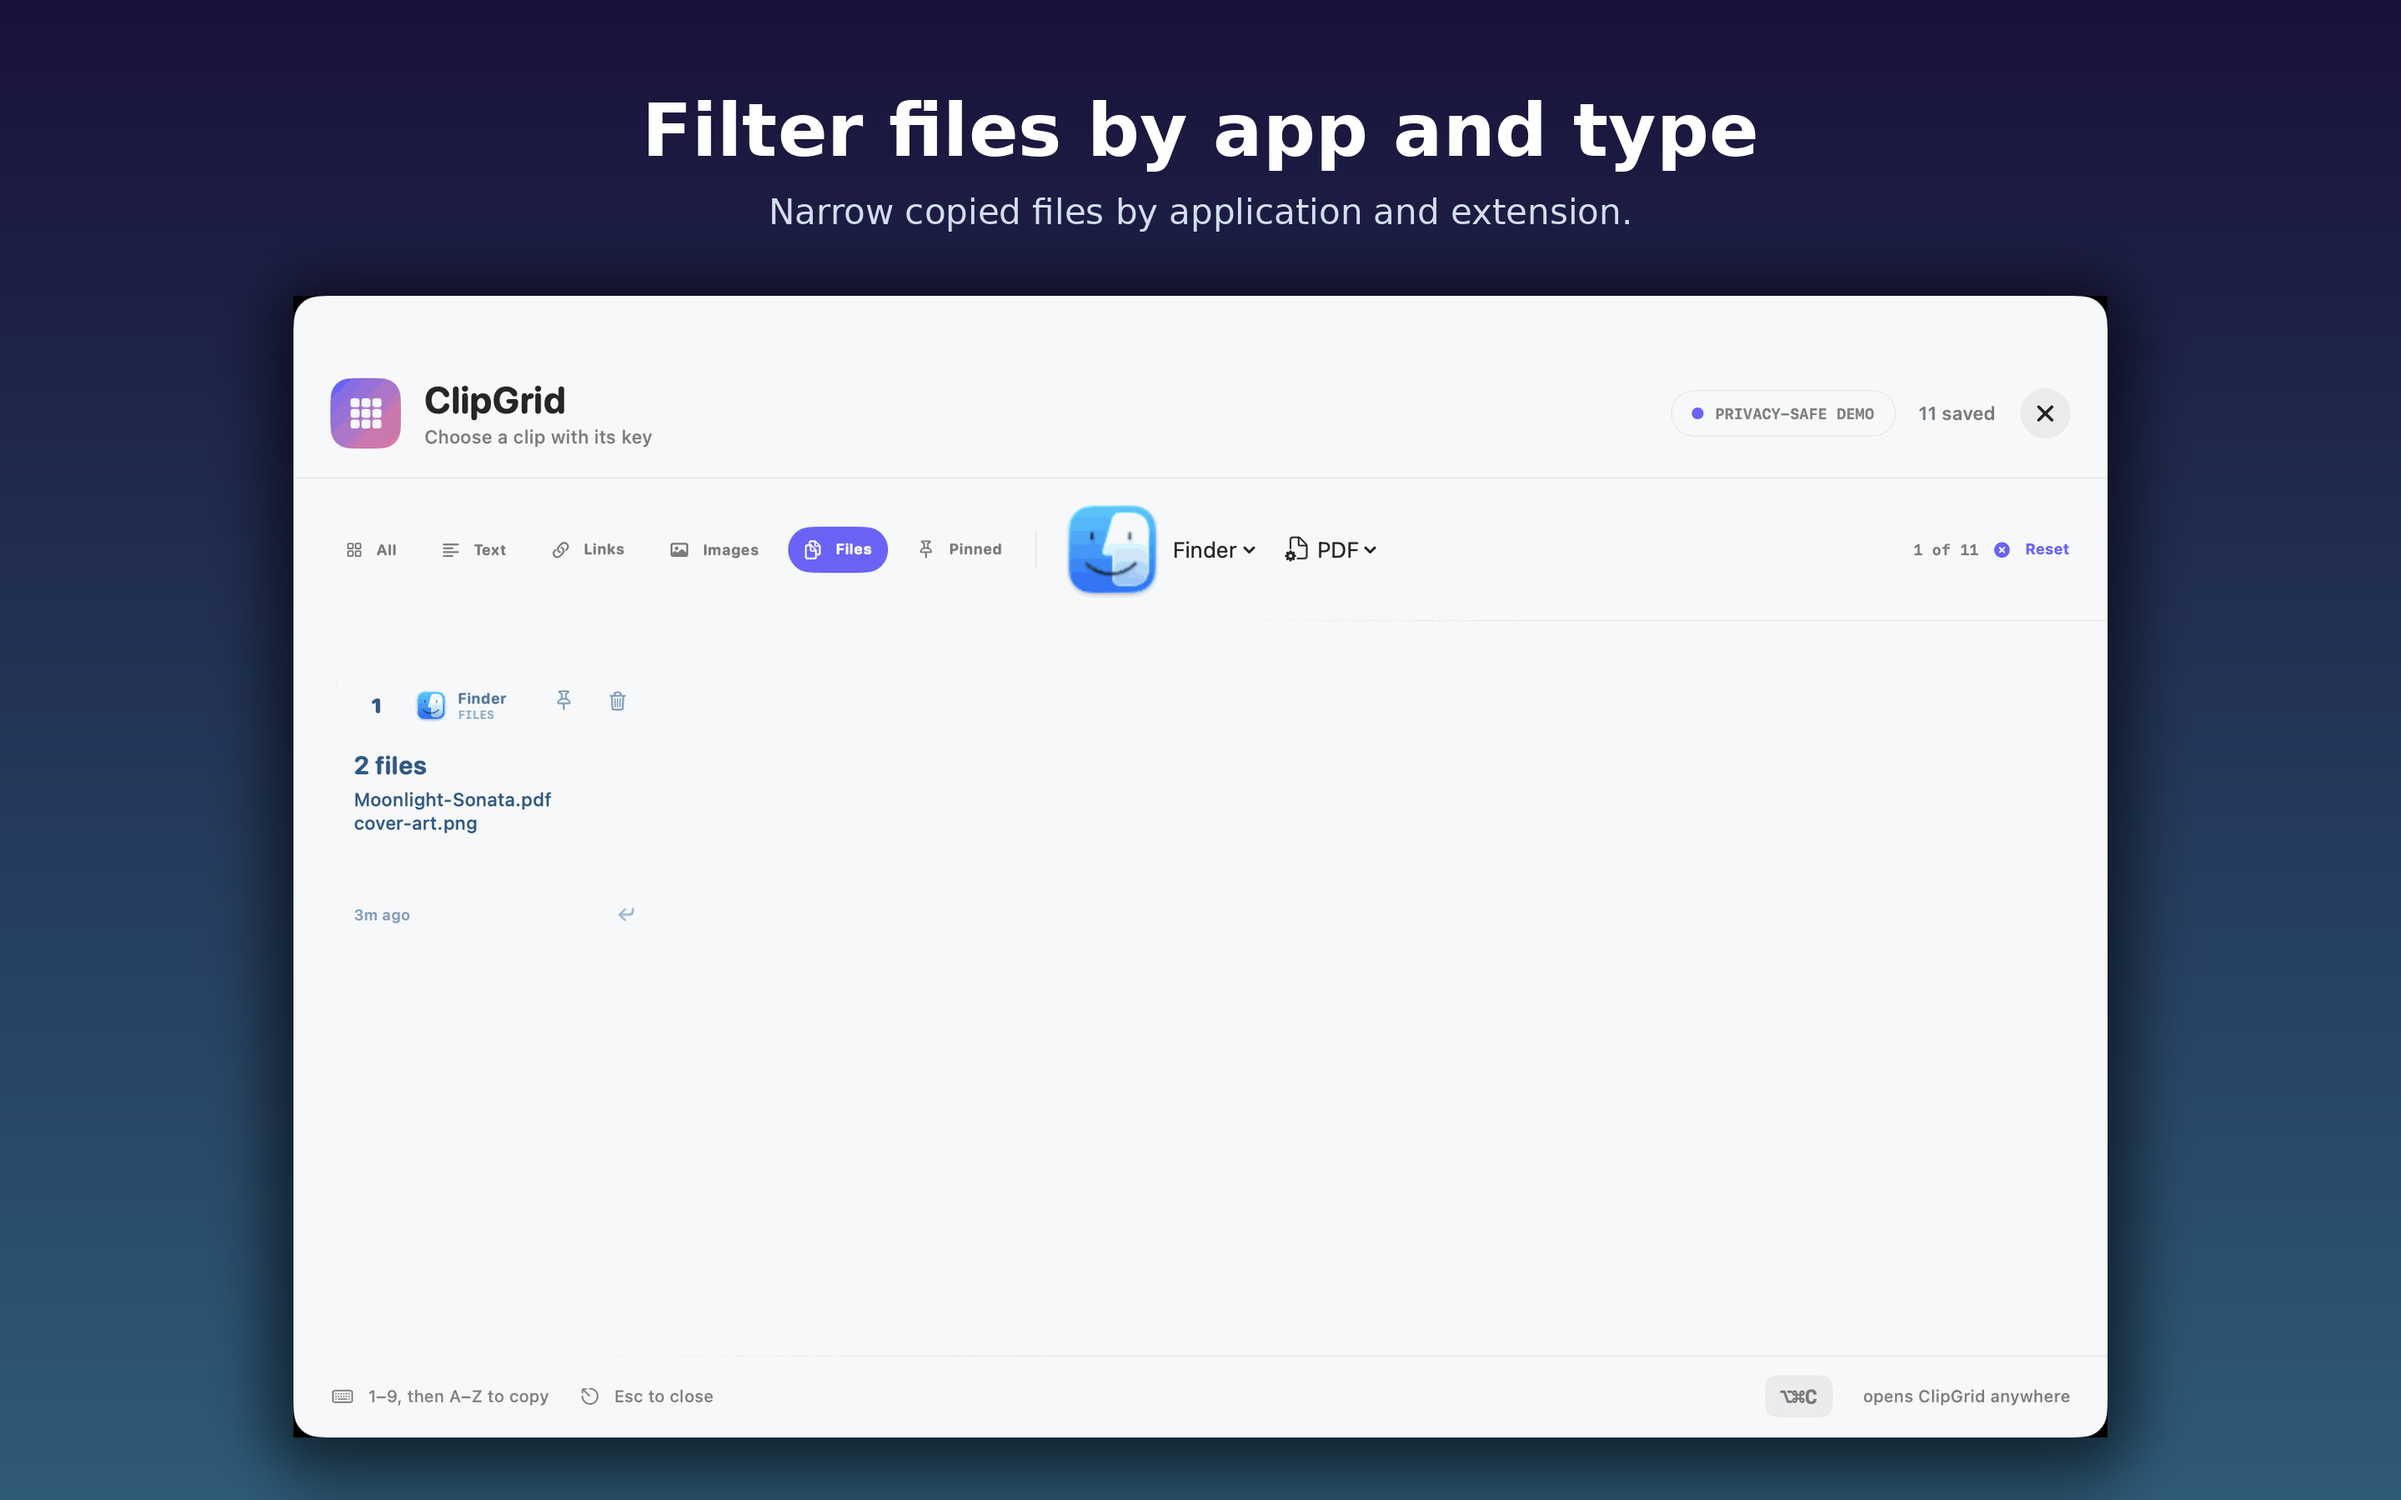
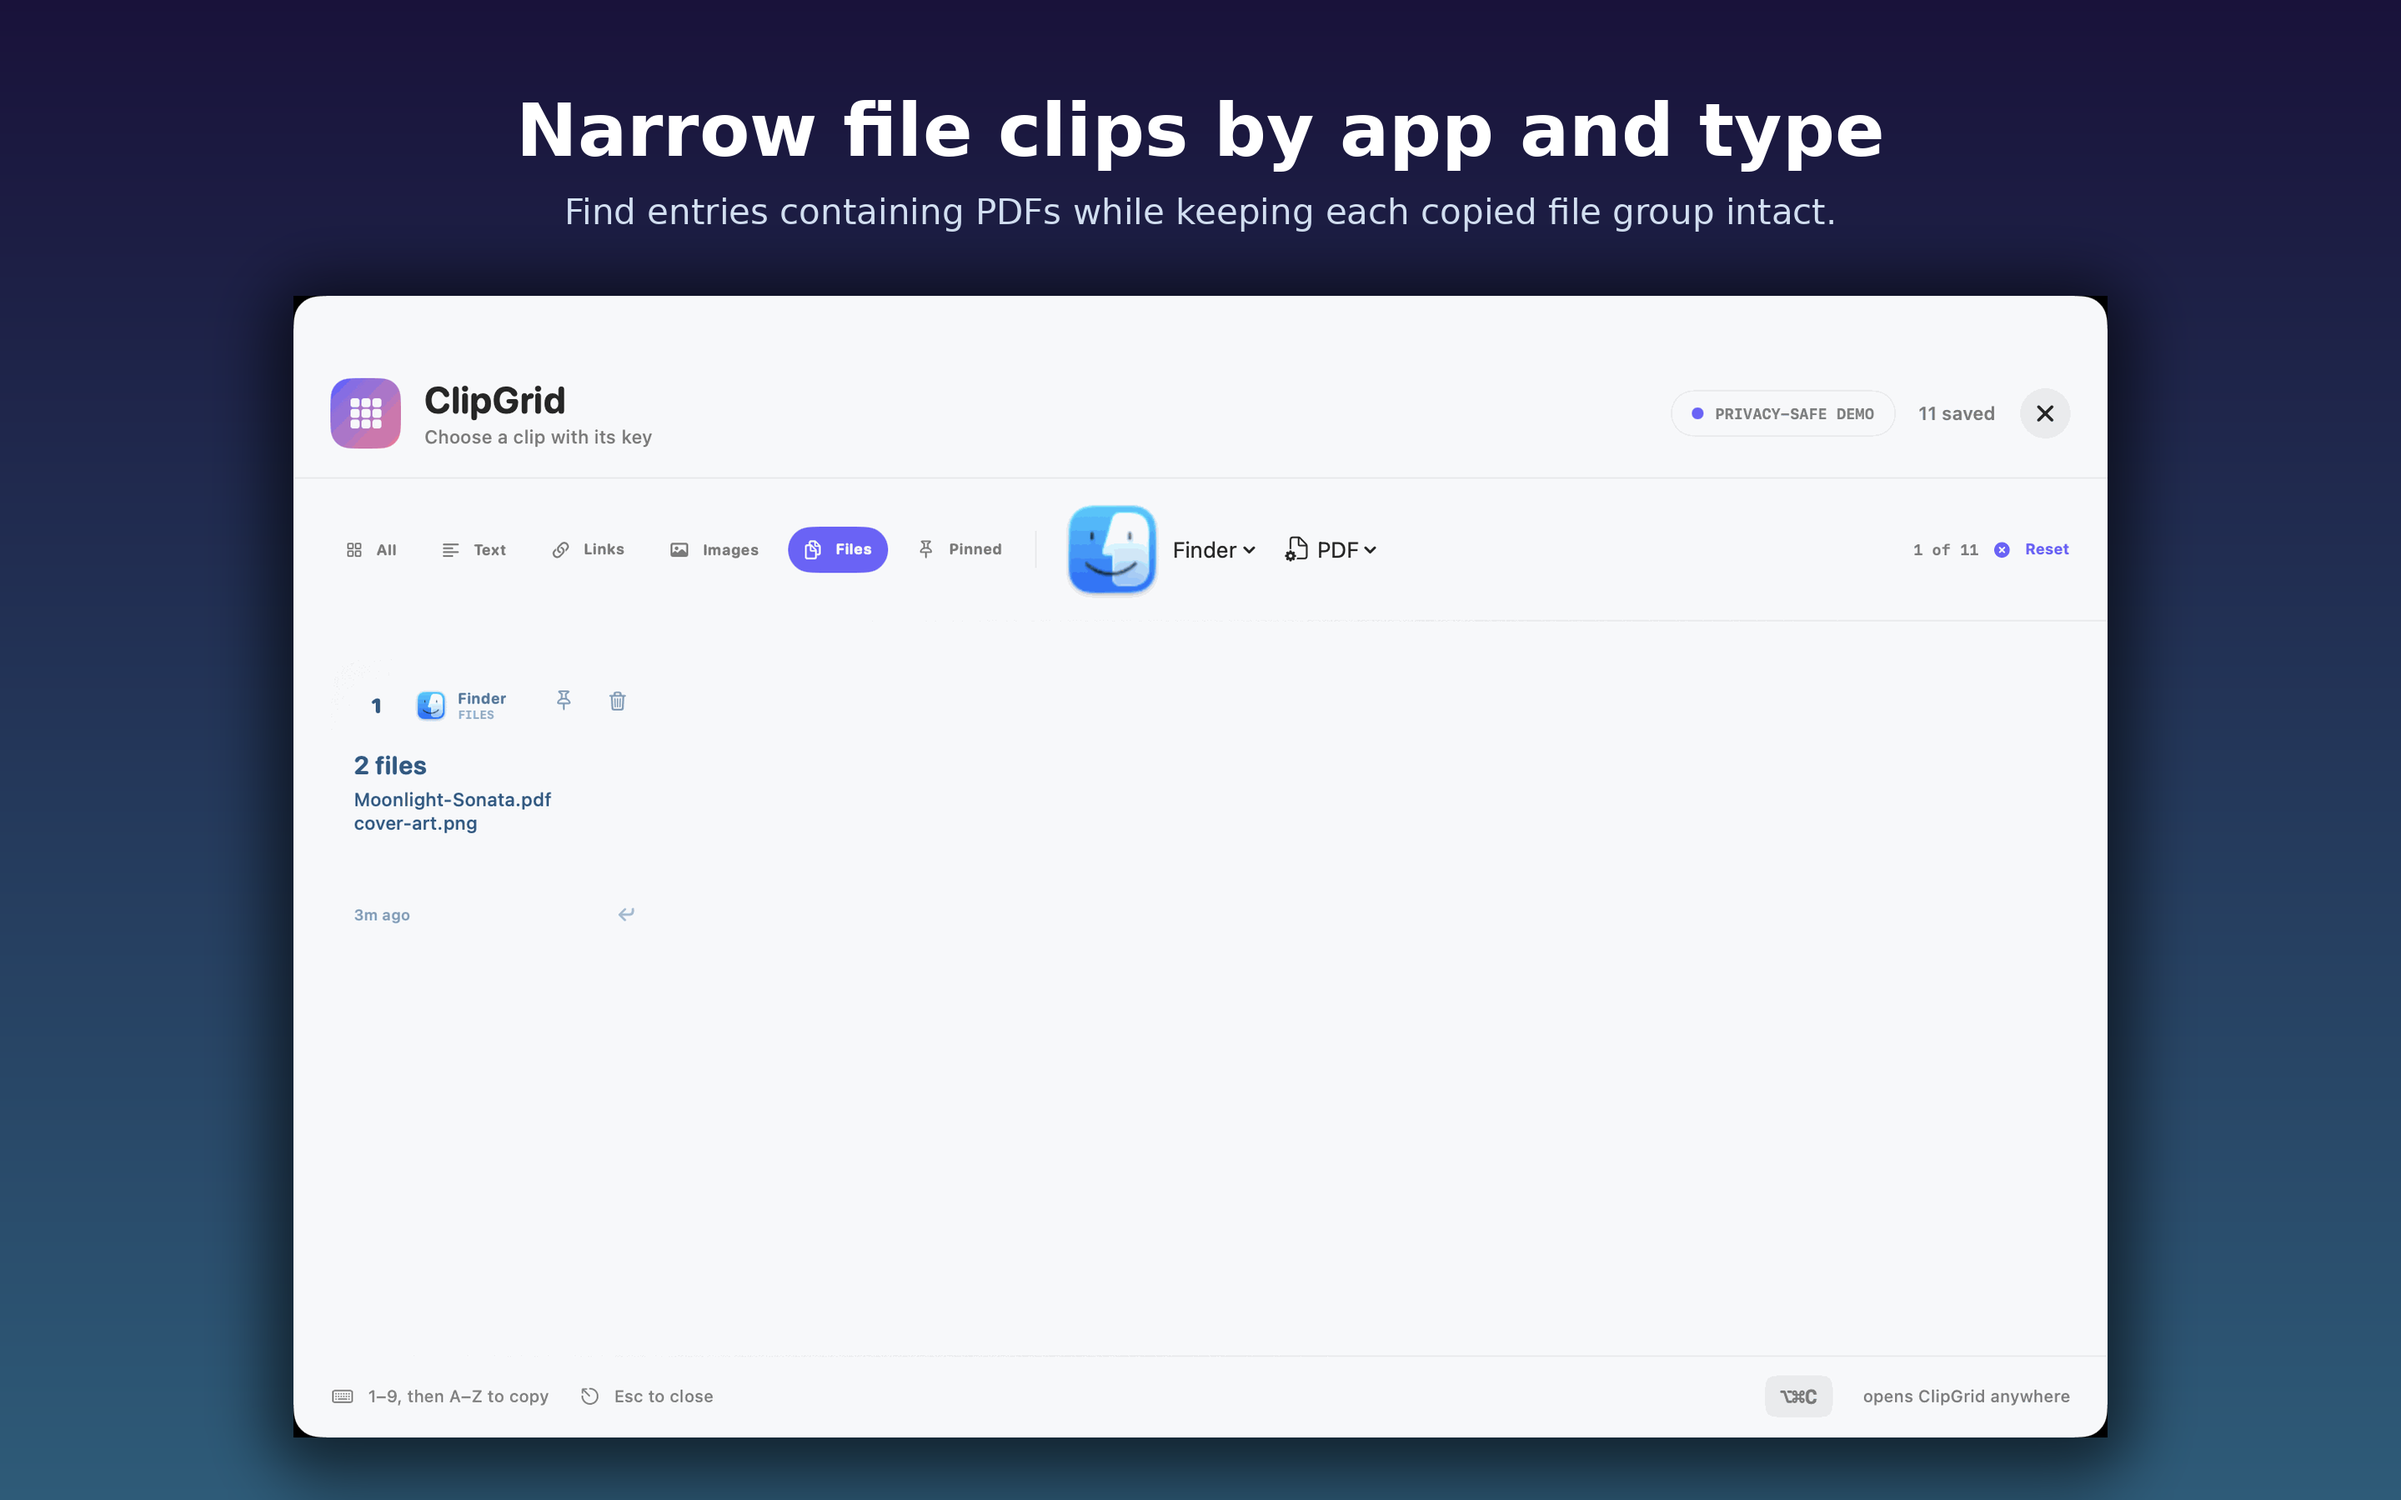
docs: clarify file extension filtering

Changed region(s): [[0.2188, 0.0622, 0.7812, 0.1556]]

diff --git a/scripts/generate_app_store_screenshots.py b/scripts/generate_app_store_screenshots.py
@@ -26,8 +26,8 @@ SCREENSHOTS = (
     (
         "docs/screenshots/03-finder-pdf-filter.png",
         "docs/app-store/03-file-filter.png",
-        "Filter files by app and type",
-        "Narrow copied files by application and extension.",
+        "Narrow file clips by app and type",
+        "Find entries containing PDFs while keeping each copied file group intact.",
     ),
     (
         "docs/screenshots/04-images-filter.png",

diff --git a/Marketing/AppStoreMetadata.md b/Marketing/AppStoreMetadata.md
@@ -43,7 +43,7 @@ A CLEAR VIEW OF YOUR HISTORY
 
 • Browse text, links, images, files, and folders
 • Filter by content type or source application
-• Filter copied files by extension
+• Show file clips containing a selected extension while keeping each copied group intact
 • Pin important clips above normal history
 • Remove one item or clear the complete history
 • Pause clipboard monitoring whenever you want
@@ -66,7 +66,7 @@ ClipGrid 1.0 introduces fast, keyboard-addressable clipboard history for macOS:
 
 • Global ⌥⌘C shortcut
 • Text, link, image, file, and folder history
-• Filters by type, source app, and file extension
+• Filters by type and source app, plus file clips narrowed by contained extension
 • Persistent pinned clips
 • Local-only history with pause, delete, and clear controls
 • Concealed and transient pasteboard protection
@@ -102,7 +102,7 @@ The source imports CryptoKit only to create deterministic local clipboard finger
 
 1. **Your clipboard, one shortcut away** — complete grid overview.
 2. **Find the right link instantly** — links filtered to Safari.
-3. **Filter files by app and type** — Finder PDF filter.
+3. **Narrow file clips by app and type** — Finder entries containing PDFs; copied groups stay intact.
 4. **See copied images at a glance** — image previews.
 
 Generated App Store assets belong in `docs/app-store/` at `2880 × 1800`, using fictional demo content only.

diff --git a/README.md b/README.md
@@ -32,7 +32,7 @@ Clipboard history should be immediate, visually understandable, and private. Cli
 
 ![ClipGrid filtered to links copied from Safari](docs/screenshots/02-safari-links-filter.png)
 
-### Filter copied files by application and extension
+### Narrow file clips by application and contained extension
 
 ![ClipGrid filtered to PDF files copied in Finder](docs/screenshots/03-finder-pdf-filter.png)
 
@@ -45,7 +45,7 @@ Clipboard history should be immediate, visually understandable, and private. Cli
 - **Source application identity** — displays the originating app name and native icon on a best-effort basis
 - **App-aware color families** — browsers, Telegram, messaging, notes, developer tools, and other apps receive consistent visual treatment
 - **Instant filters** — narrow history by text, link, image, file, or originating application
-- **Dynamic file types** — when viewing files, filter by extensions such as PDF, PNG, ZIP, or folders without an extension
+- **Dynamic file types** — narrow file clipboard entries to groups containing PDF, PNG, ZIP, or folders without an extension; the copied group stays intact
 - **Persistent pins** — keep important clips above normal history and view them with a dedicated Pinned filter
 - **URL presentation** — copied links show their host and complete URL
 - **Automatic deduplication** — repeated values move to the front

diff --git a/CHANGELOG.md b/CHANGELOG.md
@@ -19,7 +19,7 @@ The format follows [Keep a Changelog](https://keepachangelog.com/en/1.1.0/), and
 - Global `⌥⌘C` shortcut using the native macOS hotkey API.
 - Keyboard-addressable clipboard history using `1–9`, then `A–Z`.
 - Support for text, HTTP/HTTPS links, images, files, and folders.
-- Filters by content type, source application, and file extension.
+- Filters by content type and source application, with file clips narrowed by contained extension.
 - Best-effort source-application name, icon, and color attribution.
 - Persistent pinned clips.
 - Per-item deletion, complete-history clearing, and monitoring pause control.
